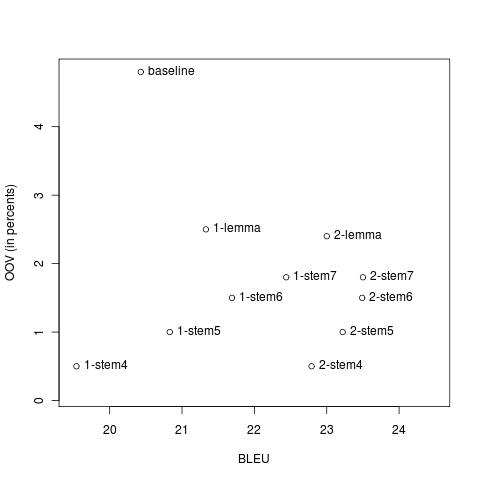
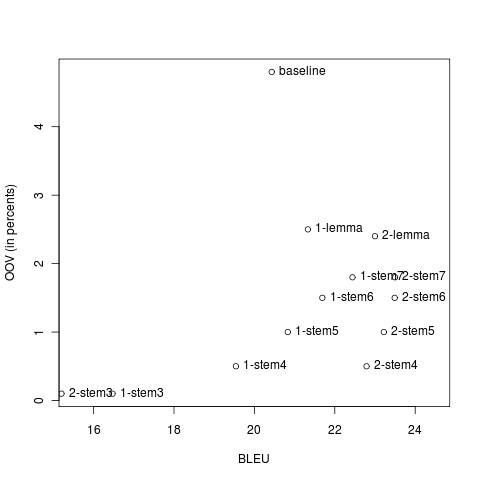
oprava

diff --git a/results/umc_pokusy.md b/results/umc_pokusy.md
@@ -21,6 +21,8 @@ RU->CS
 
 Že je 2-stem7 tak mimo je divné, ale VŮBEC NEVÍM, co s tím sakra je.
 
+Každopádně, i z dalších výsledků stejně vyplývá, že nejlepší je 2-lcstem6.
+
 RU->EN
 ---
 ![](../results_visualisation/ruen.png?raw=true)
@@ -32,6 +34,8 @@ Má to 2x lepší výsledek, než ru->cs, ale to se dalo čekat...
 CS->RU
 ---
 ![](../results_visualisation/csru.png?raw=true)
+
+lemma a lcstem6 je teď nějak zmatlané dohromady, ale zase vychází nejlím 2-lcstem6.
 
 Seznamy
 =========
